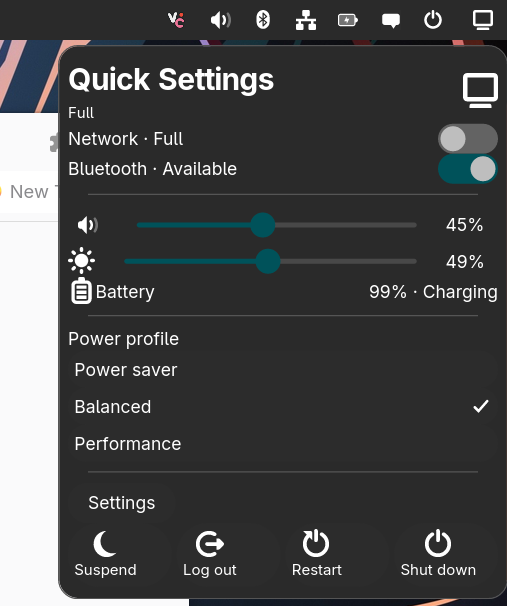
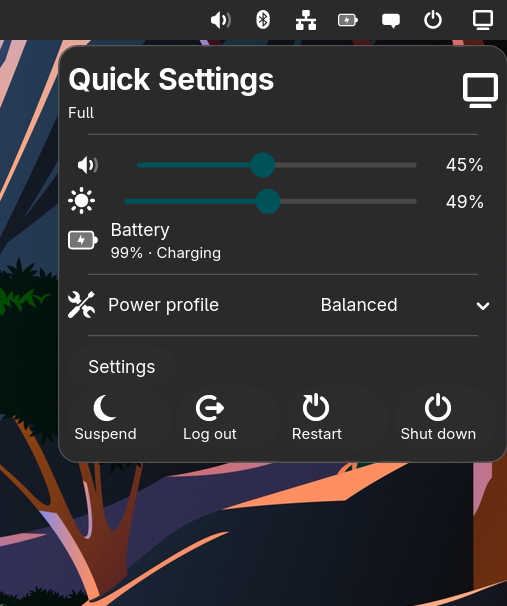
UI revision

diff --git a/src/app.rs b/src/app.rs
@@ -19,7 +19,7 @@ use cosmic::{
     cctk::sctk::reexports::calloop,
     cosmic_theme::Spacing,
     iced::{Alignment, Length, Limits, Subscription, futures::StreamExt, window::Id},
-    widget::{button, column, divider, icon, row, slider, text},
+    widget::{button, column, container, divider, icon, row, slider, text},
 };
 use cosmic_settings_audio_client::{self as audio_client, CosmicAudioProxy};
 use cosmic_settings_daemon_subscription as settings_daemon;
@@ -217,7 +217,7 @@ impl cosmic::Application for AppModel {
 
     #[allow(clippy::too_many_lines)]
     fn view_window(&self, _id: Id) -> Element<'_, Message> {
-        let mut content = column![self.header()];
+        let mut content = column![];
 
         let network_description = self
             .network
@@ -257,12 +257,9 @@ impl cosmic::Application for AppModel {
                 .map(|enabled| Message::ToggleBluetooth(!enabled)),
         );
         content = content.push(
-            cosmic::widget::grid::<Message>()
-                .push(network_tile)
-                .push(bluetooth_tile)
+            row![network_tile, bluetooth_tile]
                 .width(Length::Fill)
-                .column_spacing(8)
-                .row_spacing(8),
+                .spacing(8),
         );
 
         content = content.push(padded_divider());
@@ -271,9 +268,12 @@ impl cosmic::Application for AppModel {
         if let Some(brightness) = self.brightness {
             content = content.push(
                 row![
-                    icon::from_name("display-brightness-symbolic")
-                        .size(22)
-                        .symbolic(true),
+                    container(
+                        icon::from_name("display-brightness-symbolic")
+                            .size(22)
+                            .symbolic(true),
+                    )
+                    .width(Length::Fixed(42.0)),
                     slider(0..=brightness.max, brightness.value, Message::SetBrightness),
                     text(format!("{}%", brightness_percent(brightness))).width(Length::Fixed(42.0)),
                 ]
@@ -329,34 +329,33 @@ impl cosmic::Application for AppModel {
             );
         }
 
-        content = content
-            .push(padded_divider())
-            .push(button::standard(fl!("settings")).on_press(Message::OpenSettings))
-            .push(
-                row![
-                    action_button(
-                        "system-suspend-symbolic",
-                        fl!("suspend"),
-                        PowerAction::Suspend
-                    ),
-                    action_button(
-                        "system-log-out-symbolic",
-                        fl!("logout"),
-                        PowerAction::Logout
-                    ),
-                    action_button(
-                        "system-reboot-symbolic",
-                        fl!("restart"),
-                        PowerAction::Restart
-                    ),
-                    action_button(
-                        "system-shutdown-symbolic",
-                        fl!("shutdown"),
-                        PowerAction::Shutdown
-                    ),
-                ]
-                .spacing(4),
-            );
+        content = content.push(padded_divider()).push(
+            row![
+                settings_button(fl!("settings")),
+                action_button(
+                    "system-suspend-symbolic",
+                    fl!("suspend"),
+                    PowerAction::Suspend
+                ),
+                action_button(
+                    "system-log-out-symbolic",
+                    fl!("logout"),
+                    PowerAction::Logout
+                ),
+                action_button(
+                    "system-reboot-symbolic",
+                    fl!("restart"),
+                    PowerAction::Restart
+                ),
+                action_button(
+                    "system-shutdown-symbolic",
+                    fl!("shutdown"),
+                    PowerAction::Shutdown
+                ),
+            ]
+            .spacing(2)
+            .width(Length::Fill),
+        );
 
         self.core
             .applet
@@ -623,24 +622,6 @@ impl AppModel {
             });
     }
 
-    fn header(&self) -> Element<'_, Message> {
-        let connectivity = self
-            .network
-            .connectivity
-            .clone()
-            .unwrap_or_else(|| fl!("starting"));
-        row![
-            column![
-                text::title3(fl!("quick-settings")),
-                text::caption(connectivity)
-            ]
-            .width(Length::Fill),
-            icon::from_name("display-symbolic").size(28).symbolic(true),
-        ]
-        .align_y(Alignment::Center)
-        .into()
-    }
-
     fn audio_row(&self) -> Element<'_, Message> {
         let icon_name = if self.audio.mute || self.audio.volume == 0 {
             "audio-volume-muted-symbolic"
@@ -661,7 +642,7 @@ impl AppModel {
             text(fl!("unavailable")).into()
         };
         row![
-            mute,
+            container(mute).width(Length::Fixed(42.0)),
             slider,
             text(format!("{}%", self.audio.volume)).width(Length::Fixed(42.0))
         ]
@@ -689,6 +670,21 @@ fn action_button(icon_name: &str, label: String, action: PowerAction) -> Element
         .align_x(Alignment::Center),
     )
     .on_press(Message::Power(action))
+    .padding([5, 0])
+    .width(Length::Fill)
+    .into()
+}
+
+fn settings_button(label: String) -> Element<'static, Message> {
+    button::custom(
+        column![
+            icon::from_name("settings-symbolic").size(24).symbolic(true),
+            text::caption(label)
+        ]
+        .align_x(Alignment::Center),
+    )
+    .on_press(Message::OpenSettings)
+    .padding([5, 0])
     .width(Length::Fill)
     .into()
 }
